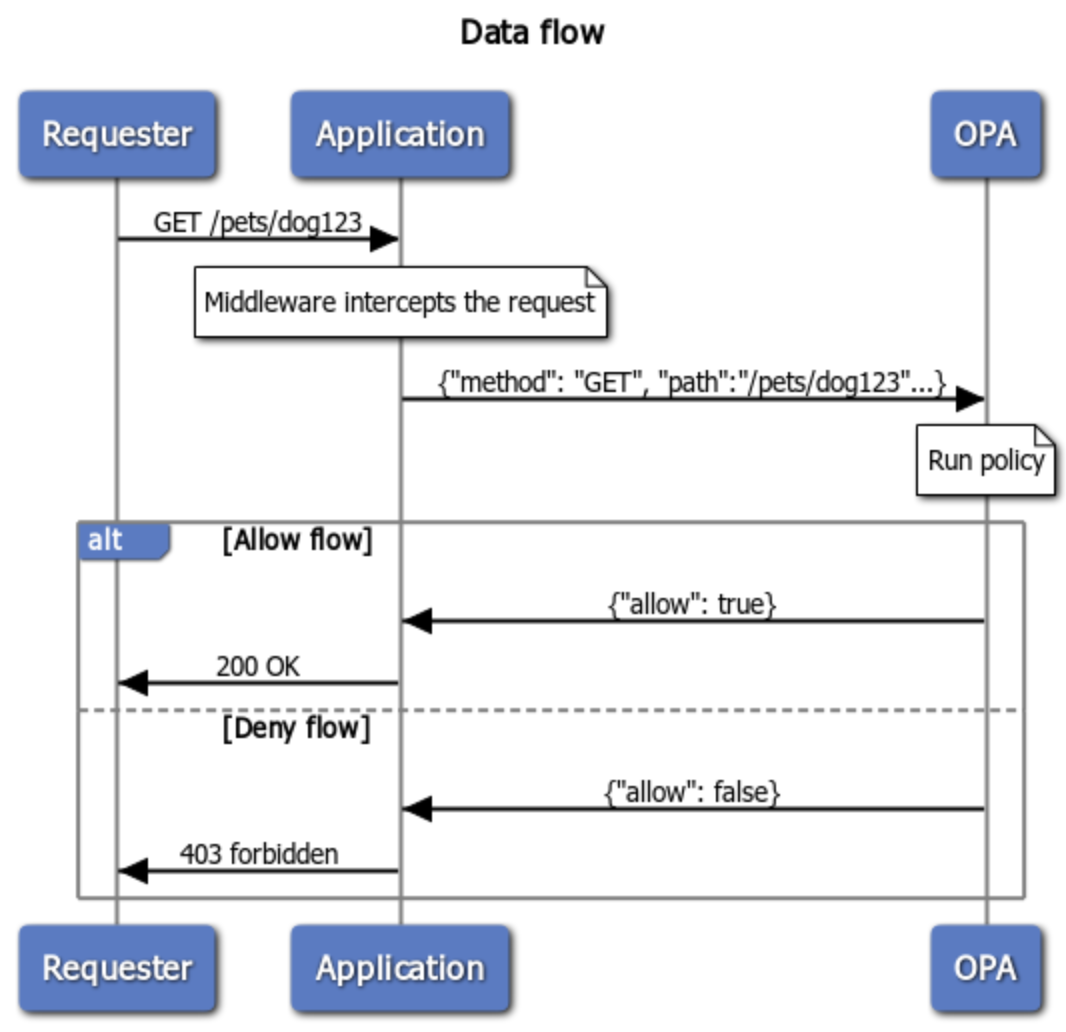
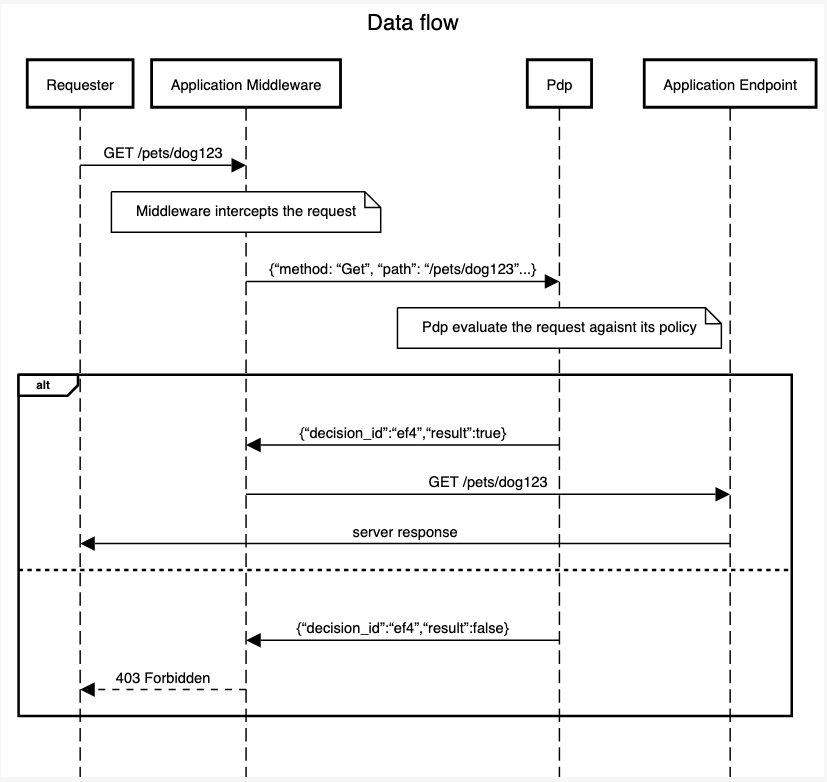
feature/bS-3759-Align readme (#11)

Changed region(s): [[0.0, 0.0, 0.9976, 1.0], [0.6348, 0.0614, 0.7255, 0.1535]]

diff --git a/example/index.js b/example/index.js
@@ -7,7 +7,7 @@ const jsonParserMiddleware = bodyParser.json();
 const extAuthzMiddleware = extAuthz.authorize((req) => ({
     port: 8181,
     hostname: 'http://localhost',
-    policyPath: '/mypolicy/allow',
+    policyPath: '/authz/allow',
 
     enable: req.method === 'GET',
     enrich: {serviceId: 1},

diff --git a/README.md b/README.md
@@ -1,13 +1,28 @@
 
 # opa-express-middleware
+<p align="center"><img src="Logo-build.png" class="center" alt="build-logo" width="30%"/></p>
+
 ## Abstract
-Node.js express middleware to authorize API requests using a 3rd party policy engine (OPA) as the Policy Decision Point (PDP).
-If you're not familiar with OPA, please [learn more](https://www.openpolicyagent.org/).
+[build.security](https://docs.build.security/) provides simple development and management for your organization's authorization policy.
+opa-express-middleware is a Node.js Express middleware intended for performing authorization requests against build.security PDP(Policy Decision Point)/[OPA](https://www.openpolicyagent.org/).
 
 ## Data Flow
-![enter image description here](https://github.com/build-security/opa-express-middleware/blob/main/Data%20flow.png)
+<p align="center"> <img src="Data%20flow.png" alt="drawing" width="60%"/></p>
 
 ## Usage
+
+Before you start we recommend completing the onboarding tutorial.
+
+---
+**Important note**
+
+To simplify the setup process, the following example uses a local [build.security PDP instance](https://docs.build.security/policy-decision-points-pdp/pdp-deployments/standalone-docker-1).
+If you are already familiar with how to run your PDP, You can also run a pdp on you environment (Dev/Prod, etc).
+
+In that case, don't forget to change the **hostname** and the **port** in your code.
+
+---
+
 ### Simple usage
 ```js
 const express = require('express');
@@ -17,11 +32,12 @@ const port = 3000;
 
 const app = express();
 
-const extAuthzMiddleware = extAuthz((req) => ({
+const extAuthzMiddleware = extAuthz.authorize((req) => ({
     port: 8181,
     hostname: 'http://localhost',
-    policyPath: '/mypolicy/allow',
+    policyPath: '/authz/allow',
 }));
+
 
 app.use(bodyParser.json(), extAuthzMiddleware);
 
@@ -30,7 +46,6 @@ app.listen(port, () => {
 });
 ```
 ### Mandatory configuration
-
  1. `hostname`: The hostname of the Policy Decision Point (PDP)
  2. `port`: The port at which the OPA service is running
  3. `policyPath`: Full path to the policy (including the rule) that decides whether requests should be authorized
@@ -39,7 +54,7 @@ app.listen(port, () => {
  1. `allowOnFailure`: Boolean. "Fail open" mechanism to allow access to the API in case the policy engine is not reachable. **Default is false**.
  2. `includeBody`: Boolean. Whether or not to pass the request body to the policy engine. **Default is true**.
  3. `includeHeaders`: Boolean. Whether or not to pass the request headers to the policy engine. **Default is true**
- 4. `timeout`: Boolean. Amount of time to wait before request is abandoned and request is declared as failed. **Default is 1000ms**.
+ 4. `timeout`: Integer. Amount of time to wait before request is abandoned and request is declared as failed. **Default is 1000ms**.
  5. `enable`: Boolean. Whether or not to consult with the policy engine for the specific request. **Default is true**
  6. `enrich`: Object. An object to attach to the request that is being sent to the policy engine. **Default is an empty object {}**
 
@@ -59,7 +74,7 @@ const app = express();
 const extAuthzMiddleware = extAuthz.authorize((req) => ({
     port: 8181,
     hostname: 'http://localhost',
-    policyPath: '/mypolicy/allow',
+    policyPath: '/authz/allow',
     enable: req.method === "GET",
     enrich: { serviceId: 1 }
 }));
@@ -77,47 +92,51 @@ This is what the input received by the PDP would look like.
 
 ```
 {
-    "input": {
-        "request": {
-            "method": "GET",
-            "query": {
-                "querykey": "queryvalue"
-            },
-            "path": "/region/israel/users/buildsec",
-            "scheme": "http",
-            "host": "localhost",
-            "body": {
-                "bodykey": "bodyvalue"
-            },
-            "headers": {
-                "content-type": "application/json",
-                "user-agent": "PostmanRuntime/7.26.5",
-                "accept": "*/*",
-                "cache-control": "no-cache",
-                "host": "localhost:3000",
-                "accept-encoding": "gzip, deflate, br",
-                "connection": "keep-alive",
-                "content-length": "24"
-            }
-        },
-        "source": {
-            "port": 63405,
-            "address": "::1"
-        },
-        "destination": {
-            "port": 3000,
-            "address": "::1"
-        },
-        "resources": {
-            "attributes": {
-                "region": "israel",
-                "userId": "buildsec"
-            },
-            "permissions": [
-                "user.read"
-            ]
-        },
-        "serviceId": 1
-    }
+   "input":{
+      "request":{
+         "method":"GET",
+         "query":{
+            
+         },
+         "path":"/region/israel/users/buildsec",
+         "scheme":"http",
+         "host":"localhost",
+         "body":{
+            
+         },
+         "headers":{
+            "host":"localhost:3000",
+            "user-agent":"curl/7.64.1",
+            "accept":"*/*"
+         }
+      },
+      "source":{
+         "port":56038,
+         "ipAddress":"::1"
+      },
+      "destination":{
+         "port":3000,
+         "ipAddress":"::1"
+      },
+      "resources":{
+         "attributes":{
+            "region":"1",
+            "userId":"2"
+         },
+         "permissions":[
+            "user.read"
+         ]
+      },
+      "serviceId":1
+   }
+}
+```
+
+If everything works well you should receive the following response:
+
+```
+{
+    "decision_id":"ef414180-05bd-4817-9634-7d1537d5a657",
+    "result":true
 }
 ```
